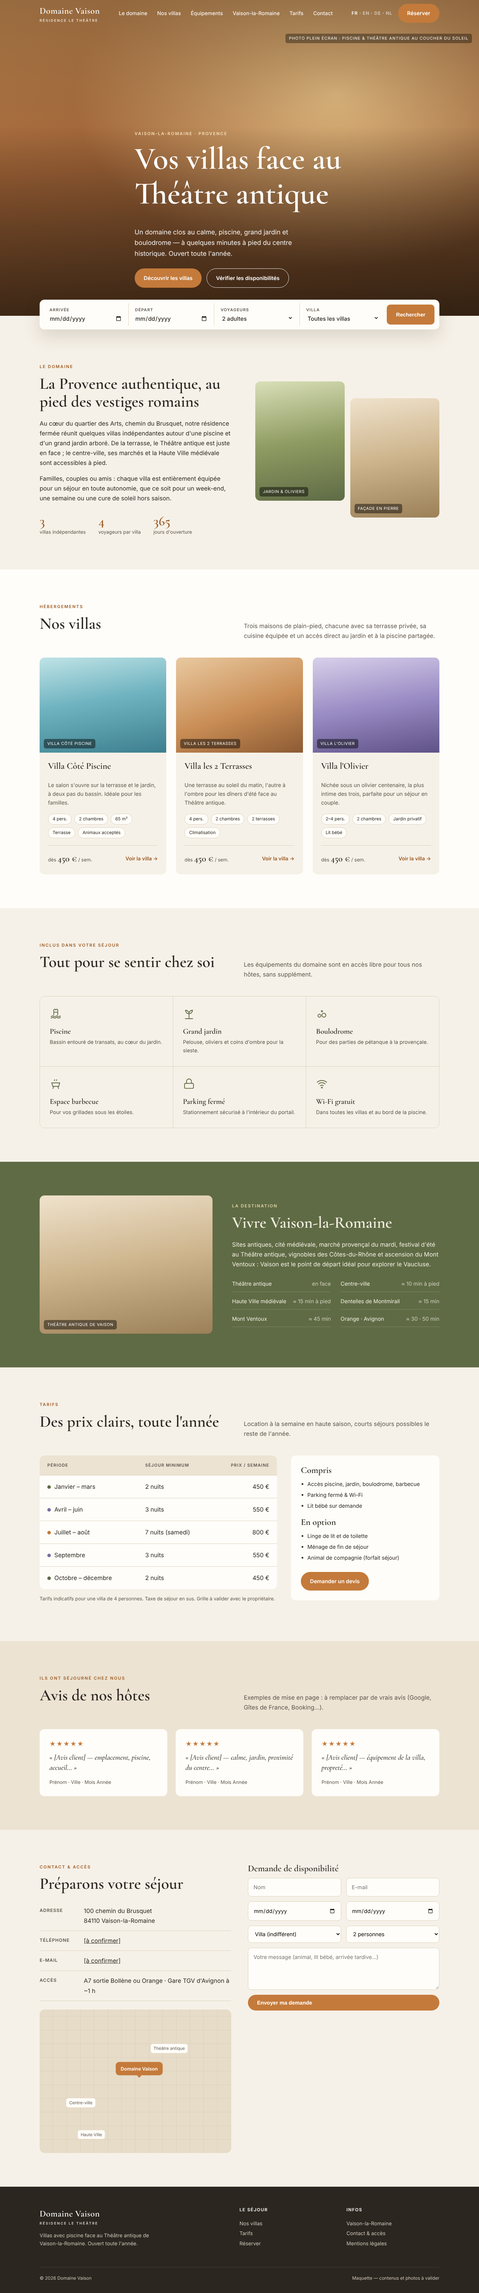
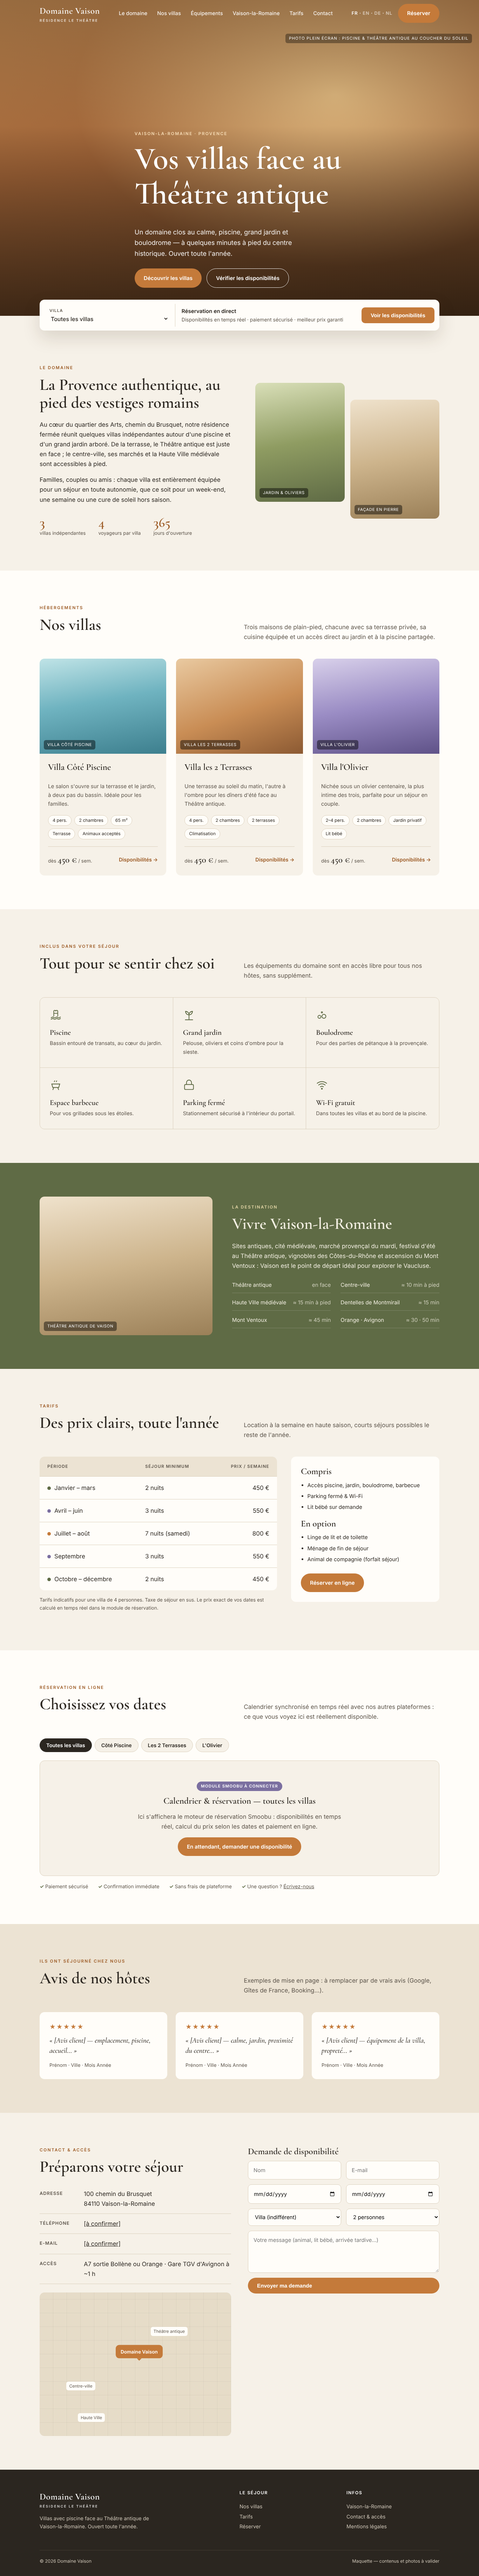
Prévoit l'intégration du moteur de réservation Smoobu
Claude-Session: https://claude.ai/code/session_01W1WyhMcFJEXwcCtCdSeHv7

diff --git a/maquette/index.html b/maquette/index.html
@@ -104,10 +104,24 @@
   }
   .booking-bar form {
     background: var(--blanc); border-radius: var(--rayon); box-shadow: 0 20px 50px rgba(60,40,20,.15);
-    display: grid; grid-template-columns: repeat(4, 1fr) auto; gap: 0; padding: 10px;
+    display: grid; grid-template-columns: 1fr 1.4fr auto; gap: 0; padding: 10px; align-items: center;
   }
   .booking-bar label { display: block; padding: 10px 18px; border-right: 1px solid var(--ligne); font-size: .72rem; text-transform: uppercase; letter-spacing: .1em; color: var(--encre-2); font-weight: 600; }
-  .booking-bar label:nth-of-type(4) { border-right: 0; }
+  .bar-info { padding: 10px 18px; font-size: .88rem; color: var(--encre-2); }
+  .bar-info strong { display: block; color: var(--encre); font-size: .95rem; }
+
+  /* Réservation Smoobu */
+  .resa { background: var(--blanc); }
+  .tabs { display: flex; flex-wrap: wrap; gap: 8px; margin-bottom: 24px; }
+  .tabs button { font: 600 .9rem Inter, sans-serif; padding: 10px 18px; border-radius: 999px; border: 1.5px solid var(--ligne); background: var(--pierre); color: var(--encre); cursor: pointer; }
+  .tabs button[aria-selected="true"] { background: var(--encre); border-color: var(--encre); color: #fff; }
+  .resa-frame { border: 1px solid var(--ligne); border-radius: var(--rayon); overflow: hidden; background: var(--pierre); }
+  .resa-frame iframe { display: block; width: 100%; height: 900px; border: 0; }
+  .resa-vide { padding: 56px 28px; text-align: center; max-width: 60ch; margin: 0 auto; }
+  .resa-vide .badge { display: inline-block; font-size: .72rem; font-weight: 600; letter-spacing: .1em; text-transform: uppercase; background: var(--lavande); color: #fff; padding: 4px 12px; border-radius: 999px; margin-bottom: 14px; }
+  .resa-vide p { color: var(--encre-2); }
+  .resa-garanties { display: flex; flex-wrap: wrap; gap: 10px 28px; margin-top: 18px; font-size: .88rem; color: var(--encre-2); }
+  .resa-garanties span::before { content: "✓ "; color: var(--olive); font-weight: 700; }
   .booking-bar input, .booking-bar select { display: block; width: 100%; border: 0; background: none; font: 500 1rem Inter, sans-serif; color: var(--encre); padding: 4px 0 0; outline: none; }
   .booking-bar .btn { margin: 4px; border-radius: 10px; }
 
@@ -208,8 +222,9 @@
     .nav ul.open { display: flex; flex-direction: column; position: absolute; top: 76px; left: 0; right: 0; background: var(--pierre); color: var(--encre); padding: 20px; gap: 16px; box-shadow: 0 10px 20px rgba(0,0,0,.08); }
     .burger { display: block; }
     .nav-right .btn { display: none; }
-    .booking-bar form { grid-template-columns: 1fr 1fr; }
+    .booking-bar form { grid-template-columns: 1fr; }
     .booking-bar label { border-right: 0; border-bottom: 1px solid var(--ligne); }
+    .resa-frame iframe { height: 1100px; }
     .booking-bar .btn { grid-column: 1 / -1; justify-content: center; }
     .intro, .vaison-grid, .tarifs-wrap, .contact-grid { grid-template-columns: 1fr; gap: 40px; }
     .villa-grid, .avis-grid { grid-template-columns: 1fr; }
@@ -243,7 +258,7 @@
     </ul>
     <div class="nav-right">
       <span class="lang"><a class="on" href="#">FR</a> · <a href="#">EN</a> · <a href="#">DE</a> · <a href="#">NL</a></span>
-      <a class="btn" href="#reserver">Réserver</a>
+      <a class="btn" href="#reservation">Réserver</a>
       <button class="burger" aria-label="Menu" onclick="document.getElementById('menu').classList.toggle('open')">☰</button>
     </div>
   </div>
@@ -257,18 +272,16 @@
     <p>Un domaine clos au calme, piscine, grand jardin et boulodrome — à quelques minutes à pied du centre historique. Ouvert toute l'année.</p>
     <div class="ctas">
       <a class="btn" href="#villas">Découvrir les villas</a>
-      <a class="btn ghost" href="#reserver">Vérifier les disponibilités</a>
+      <a class="btn ghost" href="#reservation">Vérifier les disponibilités</a>
     </div>
   </div>
 </section>
 
 <div class="wrap booking-bar" id="reserver">
-  <form onsubmit="event.preventDefault(); location.hash='contact';">
-    <label>Arrivée<input type="date"></label>
-    <label>Départ<input type="date"></label>
-    <label>Voyageurs<select><option>2 adultes</option><option>3 personnes</option><option>4 personnes</option><option>+ bébé</option></select></label>
-    <label>Villa<select><option>Toutes les villas</option><option>Villa Côté Piscine</option><option>Villa les 2 Terrasses</option><option>Villa l'Olivier</option></select></label>
-    <button class="btn" type="submit">Rechercher</button>
+  <form onsubmit="event.preventDefault(); ouvrirReservation(this.villa.value);">
+    <label>Villa<select name="villa"><option value="toutes">Toutes les villas</option><option value="cote-piscine">Villa Côté Piscine</option><option value="2-terrasses">Villa les 2 Terrasses</option><option value="olivier">Villa l'Olivier</option></select></label>
+    <div class="bar-info"><strong>Réservation en direct</strong>Disponibilités en temps réel · paiement sécurisé · meilleur prix garanti</div>
+    <button class="btn" type="submit">Voir les disponibilités</button>
   </form>
 </div>
 
@@ -308,7 +321,7 @@
           <h3>Villa Côté Piscine</h3>
           <p>Le salon s'ouvre sur la terrasse et le jardin, à deux pas du bassin. Idéale pour les familles.</p>
           <ul class="chips"><li>4 pers.</li><li>2 chambres</li><li>65 m²</li><li>Terrasse</li><li>Animaux acceptés</li></ul>
-          <div class="villa-foot"><span class="price">dès <strong>450 €</strong> / sem.</span><a class="link" href="#contact">Voir la villa →</a></div>
+          <div class="villa-foot"><span class="price">dès <strong>450 €</strong> / sem.</span><a class="link" href="#reservation" onclick="event.preventDefault(); ouvrirReservation('cote-piscine')">Disponibilités →</a></div>
         </div>
       </article>
       <article class="villa">
@@ -317,7 +330,7 @@
           <h3>Villa les 2 Terrasses</h3>
           <p>Une terrasse au soleil du matin, l'autre à l'ombre pour les dîners d'été face au Théâtre antique.</p>
           <ul class="chips"><li>4 pers.</li><li>2 chambres</li><li>2 terrasses</li><li>Climatisation</li></ul>
-          <div class="villa-foot"><span class="price">dès <strong>450 €</strong> / sem.</span><a class="link" href="#contact">Voir la villa →</a></div>
+          <div class="villa-foot"><span class="price">dès <strong>450 €</strong> / sem.</span><a class="link" href="#reservation" onclick="event.preventDefault(); ouvrirReservation('2-terrasses')">Disponibilités →</a></div>
         </div>
       </article>
       <article class="villa">
@@ -326,7 +339,7 @@
           <h3>Villa l'Olivier</h3>
           <p>Nichée sous un olivier centenaire, la plus intime des trois, parfaite pour un séjour en couple.</p>
           <ul class="chips"><li>2–4 pers.</li><li>2 chambres</li><li>Jardin privatif</li><li>Lit bébé</li></ul>
-          <div class="villa-foot"><span class="price">dès <strong>450 €</strong> / sem.</span><a class="link" href="#contact">Voir la villa →</a></div>
+          <div class="villa-foot"><span class="price">dès <strong>450 €</strong> / sem.</span><a class="link" href="#reservation" onclick="event.preventDefault(); ouvrirReservation('olivier')">Disponibilités →</a></div>
         </div>
       </article>
     </div>
@@ -393,7 +406,7 @@
             <tr><td><span class="season" style="background:var(--olive)"></span>Octobre – décembre</td><td>2 nuits</td><td>450 €</td></tr>
           </tbody>
         </table>
-        <p class="note">Tarifs indicatifs pour une villa de 4 personnes. Taxe de séjour en sus. Grille à valider avec le propriétaire.</p>
+        <p class="note">Tarifs indicatifs pour une villa de 4 personnes. Taxe de séjour en sus. Le prix exact de vos dates est calculé en temps réel dans le module de réservation.</p>
       </div>
       <div class="incl">
         <h3>Compris</h3>
@@ -408,9 +421,29 @@
           <li>Ménage de fin de séjour</li>
           <li>Animal de compagnie (forfait séjour)</li>
         </ul>
-        <a class="btn" style="margin-top:22px" href="#contact">Demander un devis</a>
+        <a class="btn" style="margin-top:22px" href="#reservation">Réserver en ligne</a>
       </div>
     </div>
+  </div>
+</section>
+
+<section class="resa" id="reservation">
+  <div class="wrap">
+    <div class="section-head">
+      <div>
+        <div class="eyebrow">Réservation en ligne</div>
+        <h2>Choisissez vos dates</h2>
+      </div>
+      <p>Calendrier synchronisé en temps réel avec nos autres plateformes : ce que vous voyez ici est réellement disponible.</p>
+    </div>
+    <div class="tabs" role="tablist">
+      <button role="tab" data-villa="toutes" aria-selected="true">Toutes les villas</button>
+      <button role="tab" data-villa="cote-piscine" aria-selected="false">Côté Piscine</button>
+      <button role="tab" data-villa="2-terrasses" aria-selected="false">Les 2 Terrasses</button>
+      <button role="tab" data-villa="olivier" aria-selected="false">L'Olivier</button>
+    </div>
+    <div class="resa-frame" id="resa-frame"></div>
+    <div class="resa-garanties"><span>Paiement sécurisé</span><span>Confirmation immédiate</span><span>Sans frais de plateforme</span><span>Une question ? <a href="#contact">Écrivez-nous</a></span></div>
   </div>
 </section>
 
@@ -472,16 +505,57 @@
         <div class="logo" style="color:#fff">Domaine Vaison<small>Résidence le Théâtre</small></div>
         <p style="max-width:40ch;margin-top:14px">Villas avec piscine face au Théâtre antique de Vaison-la-Romaine. Ouvert toute l'année.</p>
       </div>
-      <div><h4>Le séjour</h4><ul><li><a href="#villas">Nos villas</a></li><li><a href="#tarifs">Tarifs</a></li><li><a href="#reserver">Réserver</a></li></ul></div>
+      <div><h4>Le séjour</h4><ul><li><a href="#villas">Nos villas</a></li><li><a href="#tarifs">Tarifs</a></li><li><a href="#reservation">Réserver</a></li></ul></div>
       <div><h4>Infos</h4><ul><li><a href="#vaison">Vaison-la-Romaine</a></li><li><a href="#contact">Contact & accès</a></li><li><a href="#">Mentions légales</a></li></ul></div>
     </div>
     <div class="legal"><span>© 2026 Domaine Vaison</span><span>Maquette — contenus et photos à valider</span></div>
   </div>
 </footer>
 
-<a class="btn sticky-cta" href="#reserver">Vérifier les disponibilités</a>
+<a class="btn sticky-cta" href="#reservation">Vérifier les disponibilités</a>
 
 <script>
+  /* ====== Configuration Smoobu ======
+     Dans Smoobu : Paramètres > Booking Engine (moteur de réservation) > « Intégrer au site web ».
+     Copiez l'adresse (src / url) du module « tous les logements » dans `toutes`,
+     puis celle de chaque logement dans la villa correspondante.
+     Tant qu'une adresse est vide, un encart « à connecter » s'affiche à la place. */
+  const SMOOBU = {
+    toutes: '',
+    'cote-piscine': '',
+    '2-terrasses': '',
+    olivier: '',
+  };
+
+  const NOMS = { toutes: 'toutes les villas', 'cote-piscine': 'Villa Côté Piscine', '2-terrasses': 'Villa les 2 Terrasses', olivier: "Villa l'Olivier" };
+  const cadre = document.getElementById('resa-frame');
+
+  function afficherVilla(villa) {
+    document.querySelectorAll('.tabs button').forEach(b => b.setAttribute('aria-selected', b.dataset.villa === villa));
+    const url = SMOOBU[villa] || SMOOBU.toutes;
+    if (url) {
+      cadre.innerHTML = '';
+      const f = document.createElement('iframe');
+      f.src = url;
+      f.title = 'Réservation — ' + NOMS[villa];
+      f.loading = 'lazy';
+      cadre.appendChild(f);
+    } else {
+      cadre.innerHTML = `<div class="resa-vide"><span class="badge">Module Smoobu à connecter</span>
+        <h3>Calendrier & réservation — ${NOMS[villa]}</h3>
+        <p>Ici s'affichera le moteur de réservation Smoobu : disponibilités en temps réel, calcul du prix selon les dates et paiement en ligne.</p>
+        <a class="btn" href="#contact">En attendant, demander une disponibilité</a></div>`;
+    }
+  }
+
+  function ouvrirReservation(villa) {
+    afficherVilla(villa);
+    document.getElementById('reservation').scrollIntoView({ behavior: 'smooth' });
+  }
+
+  document.querySelectorAll('.tabs button').forEach(b => b.addEventListener('click', () => afficherVilla(b.dataset.villa)));
+  afficherVilla('toutes');
+
   const h = document.querySelector('header');
   const onScroll = () => h.classList.toggle('scrolled', scrollY > 40);
   addEventListener('scroll', onScroll, { passive: true });

diff --git a/maquette/SMOOBU.md b/maquette/SMOOBU.md
@@ -1,0 +1,45 @@
+# Brancher la réservation Smoobu
+
+La maquette contient une section **Réservation en ligne** (`#reservation`), avec un onglet par villa.
+Elle affiche le moteur de réservation Smoobu (Booking Engine) : disponibilités en temps réel
+(synchronisées avec Airbnb, Booking.com, etc.), calcul du prix et paiement en ligne.
+
+## 1. Côté Smoobu
+
+1. Activer et configurer le **Booking Engine** : photos, descriptions, tarifs, séjour minimum,
+   moyens de paiement (Stripe / PayPal), conditions d'annulation, langues.
+2. Aller dans **Booking Engine > Intégrer au site web**
+   (aide Smoobu : « How to integrate Smoobu booking engine into my external site »).
+3. Récupérer :
+   - le code du module **pour tous les logements** ;
+   - le code du module **pour chaque logement** (une villa = un logement Smoobu).
+
+## 2. Côté site
+
+Dans `maquette/index.html`, en bas du fichier, remplir l'objet `SMOOBU` avec l'adresse
+(attribut `src` ou `url` du code fourni par Smoobu) de chaque module :
+
+```js
+const SMOOBU = {
+  toutes: 'https://login.smoobu.com/…',        // module tous logements
+  'cote-piscine': 'https://login.smoobu.com/…', // module Villa Côté Piscine
+  '2-terrasses': 'https://login.smoobu.com/…',
+  olivier: 'https://login.smoobu.com/…',
+};
+```
+
+- Une villa laissée vide affiche le module « toutes les villas ».
+- Si tout est vide, un encart « Module Smoobu à connecter » renvoie vers le formulaire de contact.
+- Les boutons « Réserver », « Disponibilités → » des villas et la barre sous l'image d'accueil
+  ouvrent directement l'onglet de la bonne villa.
+
+Si Smoobu fournit un code JavaScript (et non une simple adresse d'iframe), envoyez-le-moi :
+je l'intégrerai tel quel dans la section, à la place de l'iframe.
+
+## 3. Pour aller plus loin (optionnel)
+
+- **Calendrier de disponibilité seul** (sans réservation) sur une future page détail de villa :
+  Smoobu > Avancé > *Calendar iFrame*.
+- **API Smoobu** (disponibilités/prix affichés dans le design du site, ex. « dès 450 € » mis à jour
+  automatiquement) : nécessite un petit serveur pour protéger la clé d'API — GitHub Pages
+  seul ne suffit pas.

diff --git a/README.md b/README.md
@@ -4,4 +4,5 @@ Site vitrine des villas de vacances face au Théâtre antique de Vaison-la-Romai
 
 - `maquette/index.html` — proposition de maquette (page d'accueil one-page, responsive, autonome : ouvrir dans un navigateur)
 - `maquette/ANALYSE.md` — analyse du site actuel residenceletheatre.com et points à valider
+- `maquette/SMOOBU.md` — comment brancher la réservation en ligne Smoobu
 - `maquette/apercu-*.png` — captures desktop et mobile
